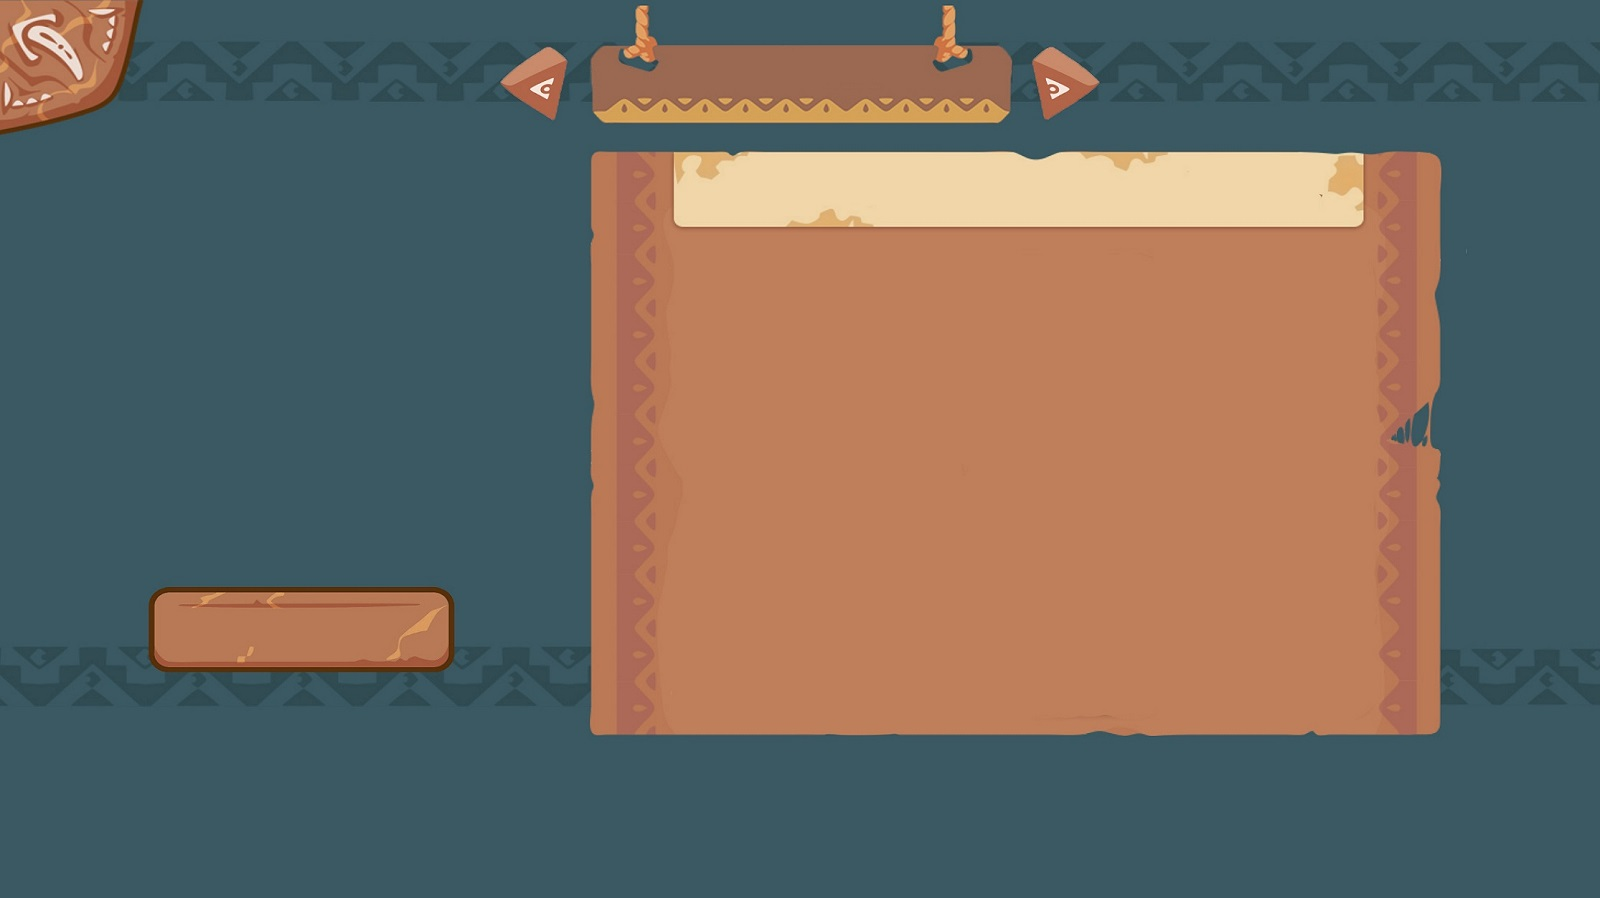
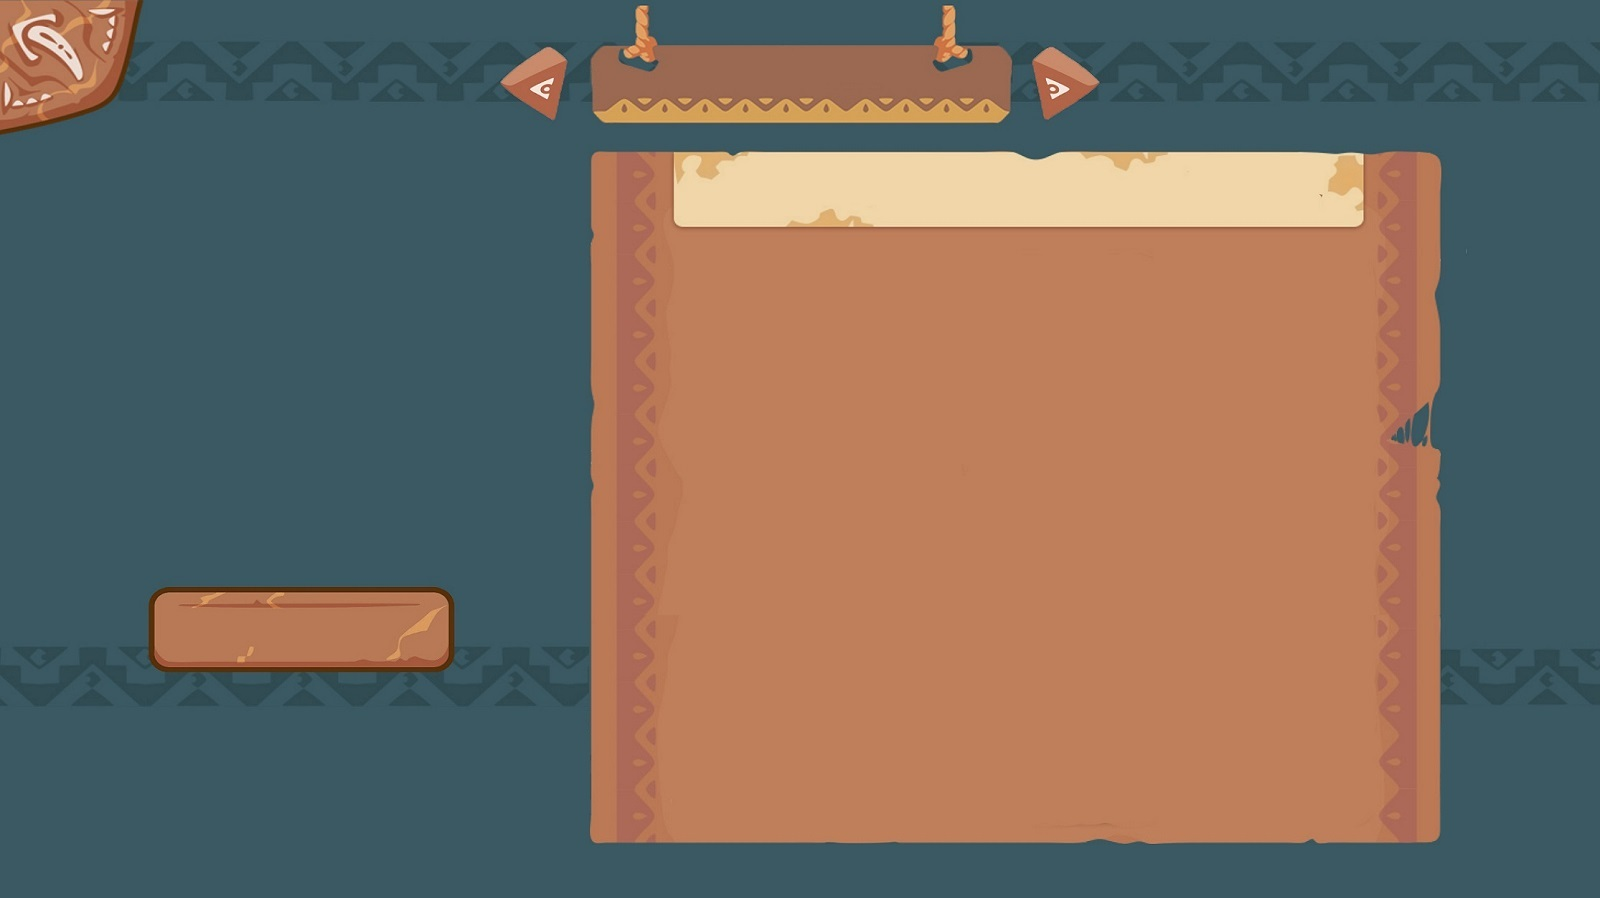
Updated Character Page UI
Updated Character Page UI

Changed region(s): [[0.3438, 0.8107, 0.9062, 0.9666]]

diff --git a/src/components/screens/game-screens/CharacterInfoScreen.vue b/src/components/screens/game-screens/CharacterInfoScreen.vue
@@ -1,13 +1,39 @@
 <template>
 	<div class="character-layout">
-        <div class="header-stat">
-            <p>Level: {{` ${character.level}`}}</p>
-			<p>Class: {{` ${character.classTypeName}`}}</p>
-			<p>Total Exp.: {{` ${character.totalExp}`}}</p>
-			<p>Next Level Exp.: {{` ${character.nextLevelExp}`}}</p>
-        </div>
-		<div>
-            <p v-for="(stat, index) in stats" class='log' :key="`stat-${index}`">{{`${stat.key}: ${stat.value}`}}</p>
+		<div class="stat-container quick-border">
+			<div class="label">Character Stat</div>
+			<div class="stat-division">
+				<div class="values">
+					<span class="label">Attribute</span>
+					<p style="text-transform: uppercase; font-weight: bold;" v-for="(stat, index) in stats" :key="`stat-${index}`">{{stat.key}}</p>
+				</div>
+				<div class="values">
+					<span class="label">Base</span>
+					<p v-for="(stat, index) in stats" :key="`stat-${index}`">{{stat.value}}</p>
+				</div>
+				<div class="values">
+					<span class="label">Bonus</span>
+					<p v-for="(stat, index) in stats" :key="`stat-${index}`">{{stat.value}}</p>
+				</div>
+				<div class="values">
+					<span class="label">Total</span>
+					<p v-for="(stat, index) in stats" :key="`stat-${index}`">{{stat.value}}</p>
+				</div>
+			</div>
+		</div>
+		<div class="other-container">
+			<div class="equip-skills">
+				<div class="equipments">
+					<div class="label">Equipments</div>
+				</div>
+				<div class="skills">
+					<div class="label">Skills</div>
+				</div>
+			</div>
+			<div class="information">
+				<div class="label">Information</div>
+				<p style="text-transform: uppercase; font-weight: bold;" v-for="(stat, index) in stats" :key="`stat-${index}`">{{stat.key}}</p>
+			</div>
         </div>
 	</div>
 </template>
@@ -34,22 +60,57 @@
 </script>
 <style scoped>
 	.character-layout {
-		height: inherit;
-		width: inherit;
-		background-repeat: no-repeat;
-		background-size: cover;
-		text-align: center;
-		overflow: hidden !important;
 		margin: auto;
-        display: flex;
-        background: transparent;
-		flex-direction: column;
+        background:transparent;
+		border: 4px solid #5f330e;
 	}
 	p {
-		font-size: 20px;
-		font-weight: 800;
+		padding: 0;
+		margin: 0.5em;
 	}
-	.header-stat {
-		padding: 10px 0;
+	.stat-container {
+		display: grid;
+        grid-template-rows: 1fr 4fr;
+		height: 17em;
+		width: inherit;
+	}
+	.stat-division {
+		display: grid;
+        grid-template-columns: 1fr 1fr 1fr 1fr;
+	}
+	.stat-division > .values {
+		text-align: center;
+	}
+	.other-container {
+        display: grid;
+        grid-template-columns: 1fr 1fr;
+        height: 20em;
+        width: inherit;
+		border-top: 4px solid #5f330e;
+    }
+	.other-container .label {
+		margin: 5px 0px;
+	}
+	.equip-skills {
+		display: grid;
+		grid-template-rows: 1fr 1.3fr;
+	}
+	.information {
+		border-left: 4px solid #5f330e;
+	}
+	.equipments {
+		border-bottom: 2px solid #5f330e;
+	}
+	.skills {
+		border-top: 2px solid #5f330e;
+	}
+	.label {
+		text-align: center;
+		margin: auto;
+		width: 100%;
+		font-weight: 900;
+		text-transform: uppercase;
+		color:saddlebrown;
+		font-family: "AxieFont";
 	}
 </style>

diff --git a/src/components/screens/game-screens/CharacterLayoutScreen.vue b/src/components/screens/game-screens/CharacterLayoutScreen.vue
@@ -49,7 +49,7 @@
 	import useMonsterSlayerService from "@/services/monster-slayer-service";
 	import { navArrangement } from "@/app-lib/constant/app-config"
 
-	const characterScreenImage = require('../../../assets/background/vuexie-character-layout.jpg');
+	const characterScreenImage = require('@/assets/background/vuexie-character-layout.jpg');
 	const characterImage =  require('@/assets/hero/playerAqua-idle.gif');
 	const healthImage =  require('@/assets/skills/healthIcon.jpg');
 	const manaImage =  require('@/assets/skills/manaIcon.jpg');
@@ -143,12 +143,11 @@
 
 	.info-container {
 		background: transparent;
-		height: 107%;
-		width: 67.3%;
+		height: 52.5%;
+		width: 43.3%;
 		position: absolute;
-		top: 29.3%;
-		left: 34%;
-
+		top: 27.3%;
+		left: 42%;
 	}
 	.character-info {
 		background: transparent;
@@ -165,7 +164,7 @@
 		cursor: pointer;
 		padding: 0.7rem;
 		text-transform: uppercase;
-        box-shadow: 0px 4px 5px #7c797933;
+        /* box-shadow: 0px 4px 5px #7c797933; */
         border-radius: 10px;
 		background-color: rgb(185, 105, 48);
 		z-index: 1;
@@ -282,7 +281,7 @@
         width: 106px !important;
 		min-height: 70px !important;
         min-width: 70px !important;
-        /* border-color: transparent; */
+        border-color: transparent;
         border-radius: 0 0 5rem 0rem;
         cursor: pointer;
         background:transparent;
@@ -294,7 +293,7 @@
 		top: 5%;
         height: 57px !important;
         width: 50px !important;
-        /* border-color: transparent; */
+        border-color: transparent;
         border-radius: 5rem 2rem 2rem 5rem;
         background:transparent;
 		margin: 0 !important;
@@ -305,7 +304,7 @@
 		top: 5%;
         height: 57px !important;
         width: 50px !important;
-        /* border-color: transparent; */
+        border-color: transparent;
         border-radius: 2rem 5rem 5rem 2rem;
         background:transparent;
 		margin: 0 !important;

diff --git a/src/components/screens/game-screens/SkillsScreen.vue b/src/components/screens/game-screens/SkillsScreen.vue
@@ -3,7 +3,9 @@
         <div class="grid-container">
             <div class="item1">
                 <span class="label-class"> SKILLS</span>
-                <p class="skills-class" v-for="(skill, index) in skills" :key="`skill-${index}`"> <img class="logo-img" :src="`${cardslogo}`" @click="skillInfo(skill)"> <span class="skills-description" @click="skillInfo(skill)">{{skill?.name ?? ''}}</span> <span class="skills-equip">EQUIP</span></p>
+                <p class="skills-class" v-for="(skill, index) in skills" :key="`skill-${index}`"> <img class="logo-img" :src="`${cardslogo}`" @click="skillInfo(skill)">
+                <span class="skills-description" @click="skillInfo(skill)">{{skill?.name ?? ''}}</span>
+                <span class="skills-equip">EQUIP</span></p>
             </div>
             <div class="item2">
                 <span class="label-class"> DETAILS</span> <br>
